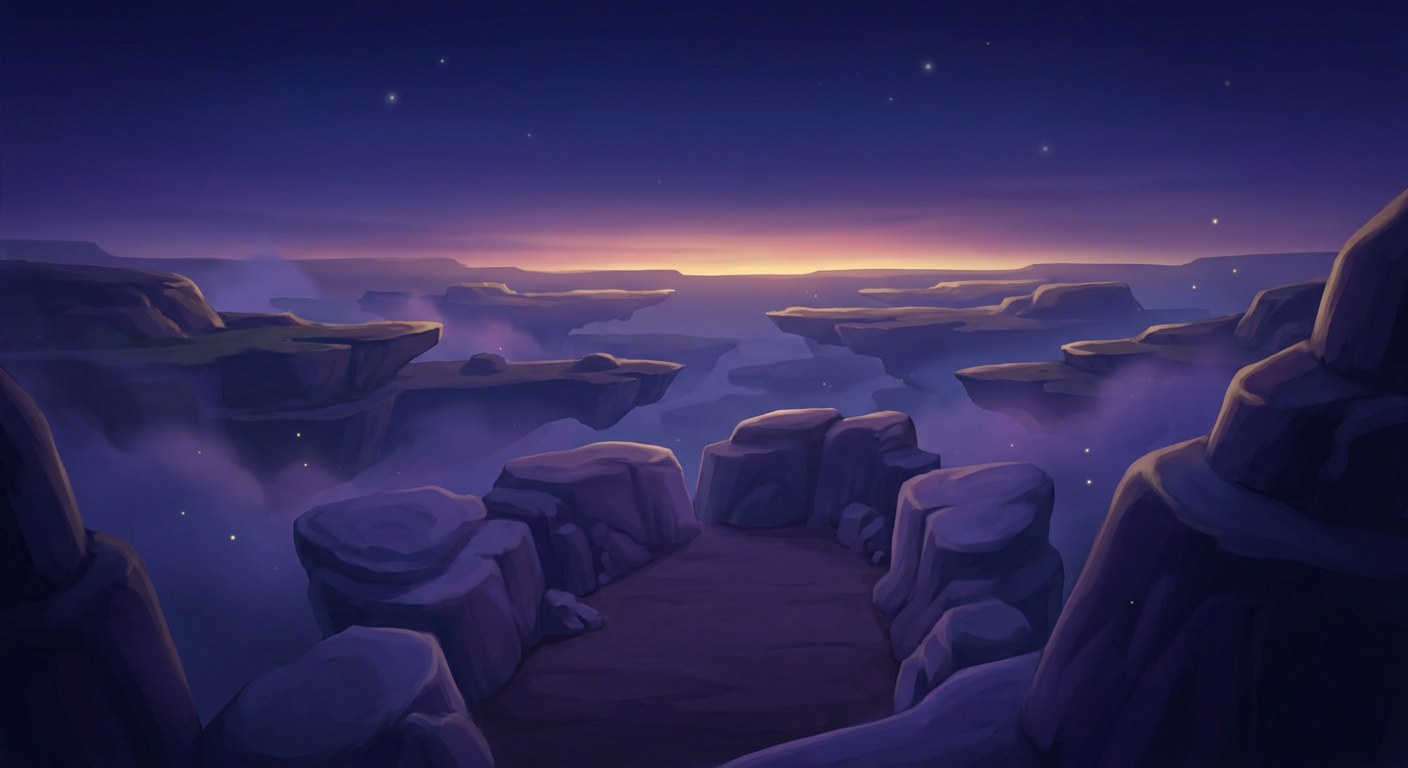
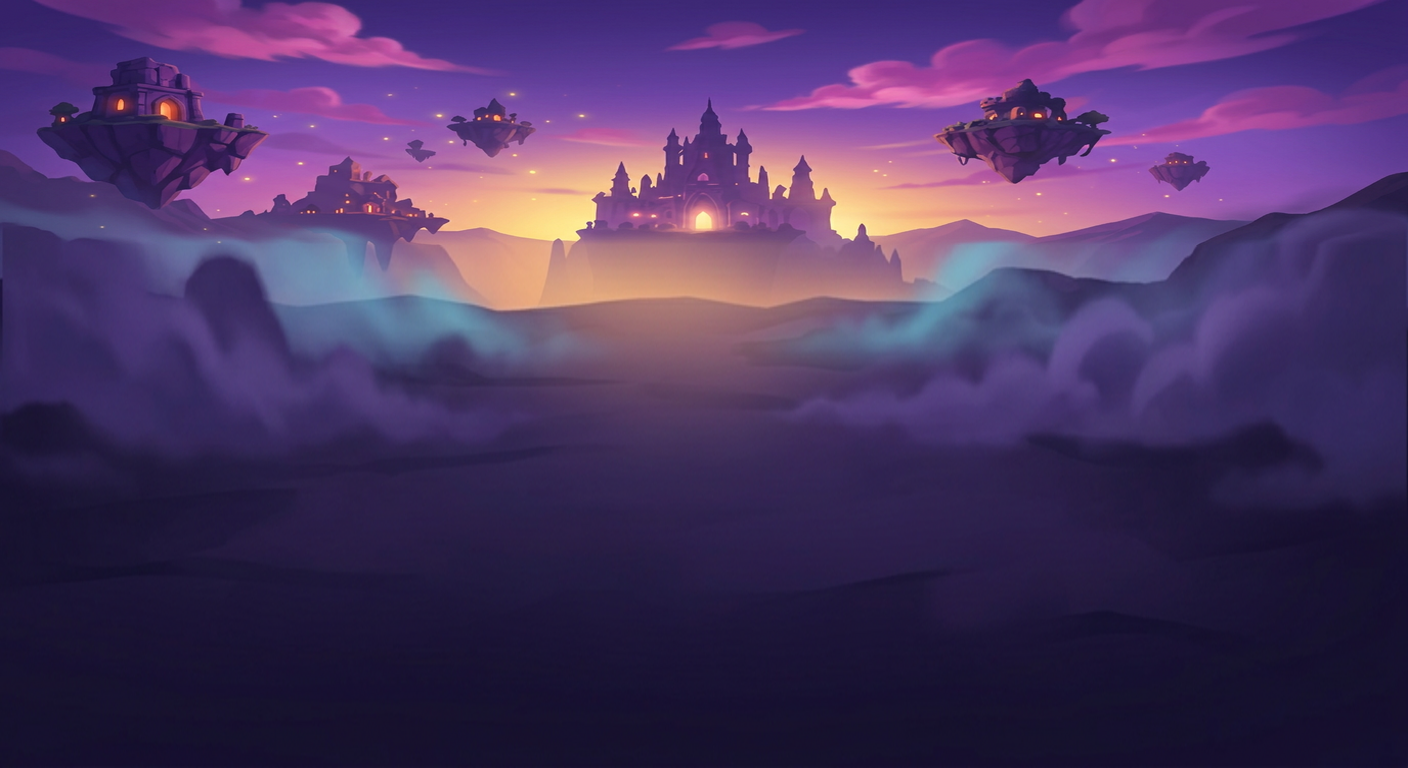
feat(world): S2 — Dusk Hollow backdrop v2 (concept-grade vista)
- New 1408x768 violet-twilight valley: floating islands with warm
  window-lights, cyan mist, dusk glow, citadel silhouette anchored on
  the game horizon (presentation-only; verified against cover-fit math)
- backdropHorizonFraction 0.27 -> 0.319 to pin the new asset's painted
  horizon to the 0.30 game horizon line (projection unchanged, in-clamp)
- Asset budget: 1.75MB -> 0.92MB raw backdrop

diff --git a/lib/game/config/game_config.dart b/lib/game/config/game_config.dart
@@ -101,8 +101,9 @@ class GameConfig {
       'worlds/dusk_hollow/backdrop.png';
 
   /// Where the backdrop's painted horizon sits inside the image, as a
-  /// fraction of image height (tuned to the current asset).
-  static const double backdropHorizonFraction = 0.27;
+  /// fraction of image height (tuned to the current asset; S2 backdrop
+  /// v2 carries its golden glow/citadel horizon at ~245/768).
+  static const double backdropHorizonFraction = 0.319;
 
   /// Gentle idle float of the world backdrop, in px (world breathing).
   static const double backdropDriftAmplitude = 5;
